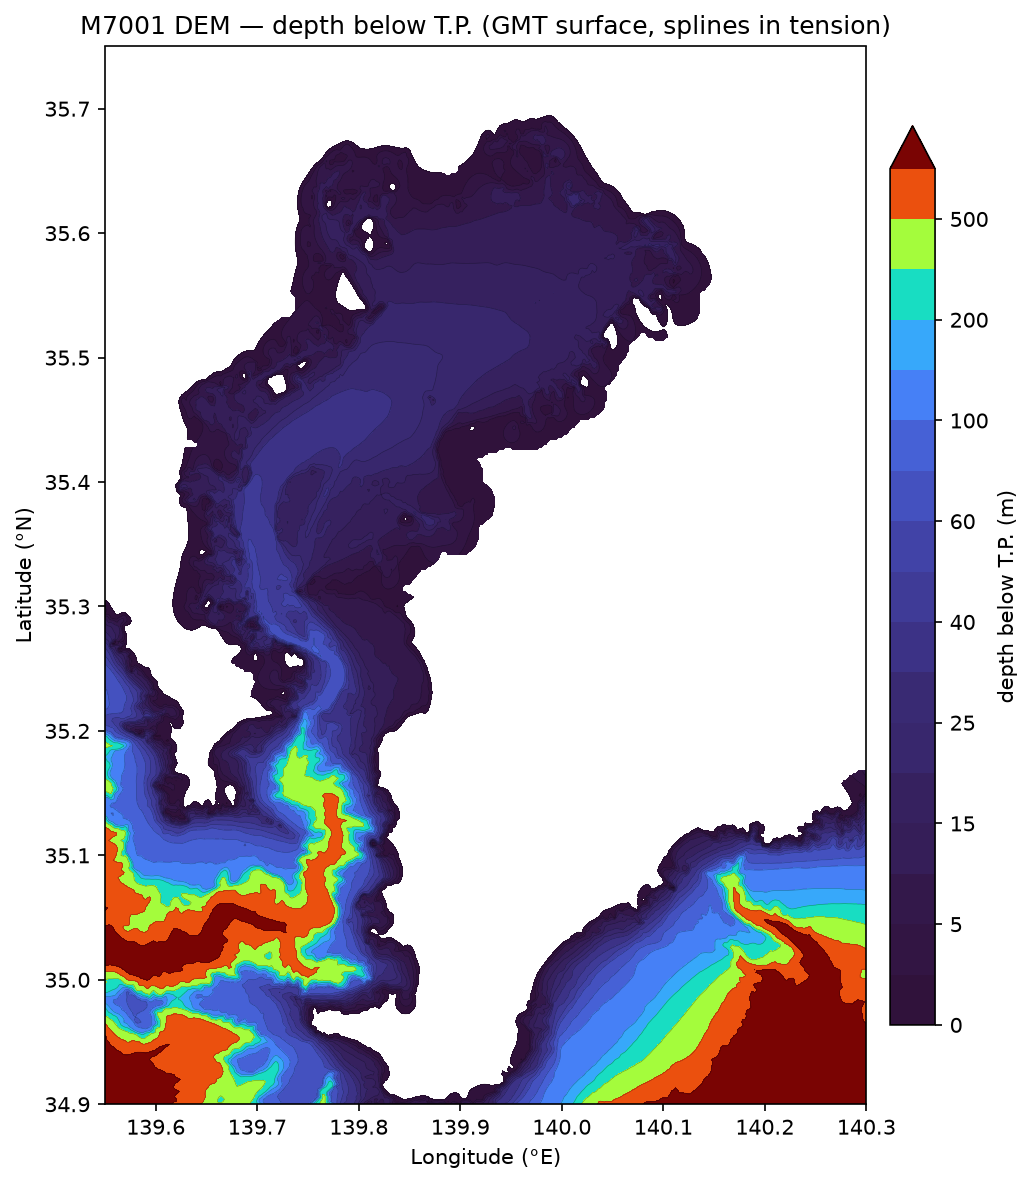
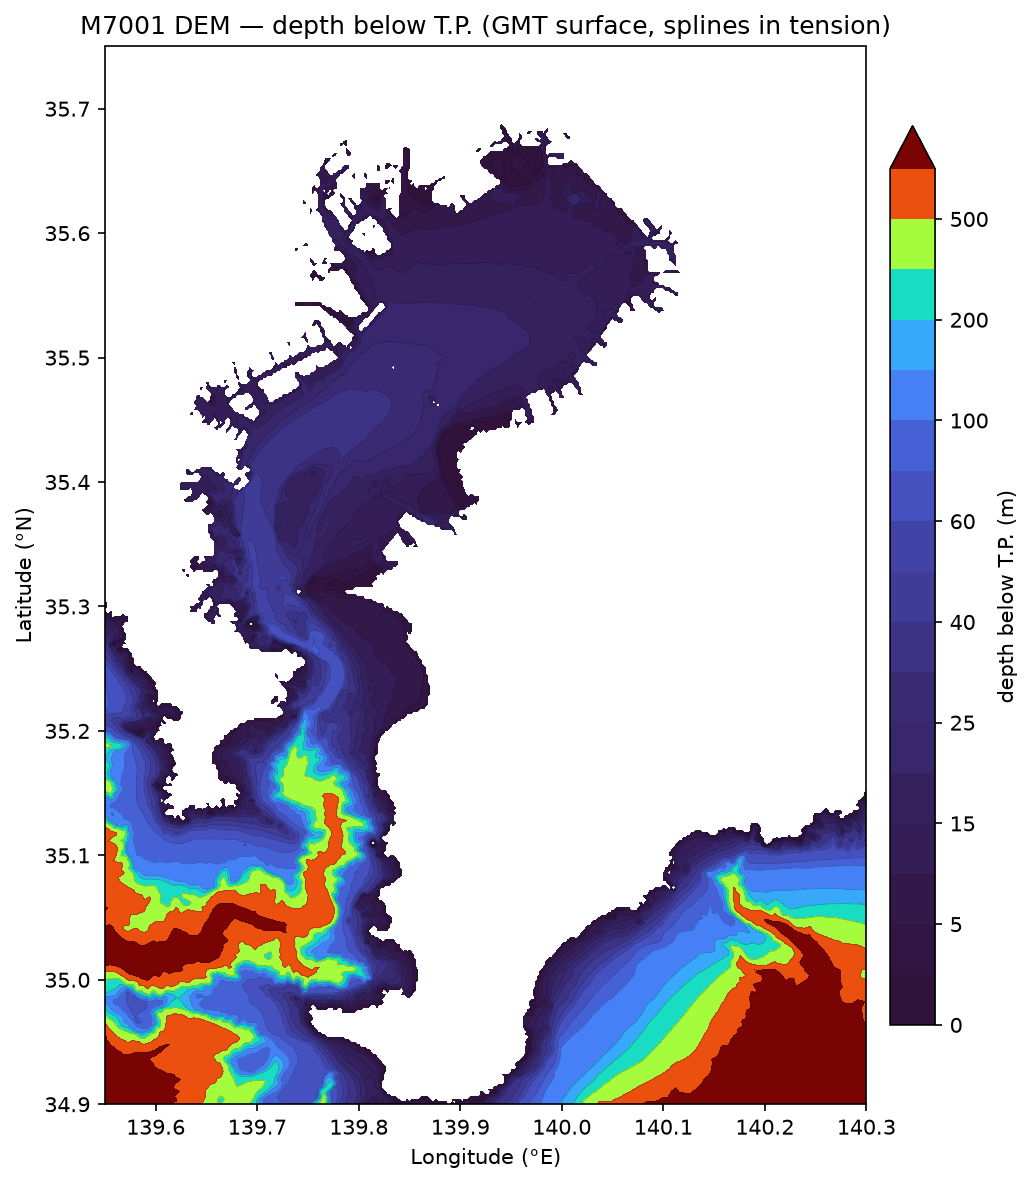
DEM hydro-flattening: clip to the OSM coastline (xcoast)
The DEM's blank areas previously followed a crude 2 km distance-from-data mask,
not the coast: it wrongly filled a ~2 km land fringe (spline extrapolated onto
land) and left ragged gaps. Add proper hydro-flattening — clip the DEM to water at
the real coastline using the OSM land polygons via the `xcoast` package. OSM
resolves reclaimed land / artificial islands (Haneda, 中央防波堤) that coarser
coastlines (GSHHG) miss, and generalises anywhere OSM covers.

- topobathy/grid/landmask.py: `osm_land_geometry(region)` -> shapely land polygon
  (xcoast + OSM shapefile extracts under $DATA_DIR/OSM; config.osm_land_shp / …).
- grid_dem gains `land_geom=` — grid nodes inside land are set NaN.
- topobathy-m7001-dem: `--land-mask` (default on) / `--no-land-mask`; DEM regenerated
  (coverage 53% -> 40%; Haneda/中央防波堤/inland now correctly land, bay water kept).
- genkai_m7001_dem.sh sets PROJ_DATA/GDAL_DATA (env-python job, no conda activate).
- geopandas/shapely/pyogrio added (environment.yml + `dem` extra); xcoast via pip.
- docs/dem.md + README updated; tests/test_grid.py covers land clipping.

Claude-Session: https://claude.ai/code/session_01Kn7V6BVsG7Mou1XRx9xaoV

diff --git a/topobathy/grid/landmask.py b/topobathy/grid/landmask.py
@@ -1,0 +1,55 @@
+"""OSM-derived land geometry for DEM hydro-flattening (via the ``xcoast`` package).
+
+Builds a single land (Multi)Polygon over a region from the OpenStreetMap land
+polygons, so a bathymetric DEM can be clipped to the actual water body (rather than
+a crude distance-from-data buffer). OSM resolves reclaimed land / artificial islands
+(e.g. Haneda, 中央防波堤) that coarser coastlines (GSHHG) miss.
+
+Requires the standalone ``xcoast`` package (OSM land masking) plus ``geopandas`` /
+``shapely`` / ``pyogrio``, and the OSM shapefile extracts under ``$DATA_DIR/OSM/``
+(see :func:`topobathy.config.osm_land_shp`). Install ``xcoast`` with
+``pip install -e /path/to/xcoast`` (or ``git+https://github.com/estuarine-utokyo/xcoast.git``).
+"""
+
+from __future__ import annotations
+
+from pathlib import Path
+from typing import TYPE_CHECKING, Any
+
+if TYPE_CHECKING:
+    from shapely.geometry.base import BaseGeometry
+
+from topobathy.grid.dem import Region
+
+__all__ = ["osm_land_geometry"]
+
+
+def osm_land_geometry(
+    region: Region,
+    land_shp: str | Path | None = None,
+    water_shp: str | Path | None = None,
+    cache_dir: str | Path | None = None,
+    force: bool = False,
+    **config_kwargs: Any,
+) -> "BaseGeometry":
+    """Return the OSM land (Multi)Polygon over ``region`` = ``(W, E, S, N)``.
+
+    Parameters mirror :class:`xcoast.CoastmaskConfig`; paths default to the
+    ``$DATA_DIR/OSM`` extracts (:mod:`topobathy.config`). ``remove_orphan_islands``
+    defaults to ``False`` here so small islands stay masked as land.
+    """
+    import xcoast
+
+    from topobathy import config as _cfg
+
+    conf = xcoast.CoastmaskConfig(
+        land_shp_path=Path(land_shp) if land_shp else _cfg.osm_land_shp(),
+        water_shp_path=Path(water_shp) if water_shp else _cfg.osm_water_shp(),
+        cache_dir=Path(cache_dir) if cache_dir else _cfg.coastmask_cache_dir(),
+        remove_orphan_islands=config_kwargs.pop("remove_orphan_islands", False),
+        **config_kwargs,
+    )
+    w, e, s, n = region
+    mask = xcoast.load((w, s, e, n), config=conf, force=force)  # xcoast bbox=(W,S,E,N)
+    gdf = mask.land_gdf
+    return gdf.union_all() if hasattr(gdf, "union_all") else gdf.unary_union

diff --git a/tests/test_grid.py b/tests/test_grid.py
@@ -64,3 +64,24 @@ def test_grid_dem_mask_blanks_far_cells() -> None:
         lon, lat, z, region=(139.6, 140.3, 35.0, 35.6), spacing=0.02, mask_km=3.0
     )
     assert np.isnan(dem.values).any()  # the gap between clusters is blanked
+
+
+def test_grid_dem_land_geom_clips() -> None:
+    from shapely.geometry import box
+
+    lon, lat, z = _synthetic()
+    land = box(139.90, 35.15, 140.10, 35.45)  # a land box inside the region
+    dem = grid_dem(
+        lon,
+        lat,
+        z,
+        region=(139.65, 140.15, 35.05, 35.55),
+        spacing=0.02,
+        mask_km=50.0,
+        land_geom=land,
+    )
+    LON, LAT = np.meshgrid(dem["lon"].values, dem["lat"].values)
+    inside = (LON > 139.92) & (LON < 140.08) & (LAT > 35.17) & (LAT < 35.43)
+    west_water = LON < 139.80
+    assert np.all(np.isnan(dem.values[inside]))  # land cells blanked
+    assert np.isfinite(dem.values[west_water]).any()  # water cells kept

diff --git a/topobathy/cli/m7001_dem.py b/topobathy/cli/m7001_dem.py
@@ -21,7 +21,7 @@ from pathlib import Path
 import numpy as np
 
 from topobathy import config
-from topobathy.grid import grid_dem
+from topobathy.grid import grid_dem, osm_land_geometry
 from topobathy.io import read_points
 
 
@@ -65,6 +65,14 @@ def _build_parser() -> argparse.ArgumentParser:
         default=["N", "M"],
         help="marks to grid (default: N M; both carry a T.P. elevation)",
     )
+    p.add_argument(
+        "--land-mask",
+        dest="land_mask",
+        action=argparse.BooleanOptionalAction,
+        default=True,
+        help="clip the DEM to water at the OSM coastline (hydro-flattening, via "
+        "xcoast); --no-land-mask keeps the plain distance-coverage mask",
+    )
     p.add_argument("--out", type=Path, required=True, help="output NetCDF path")
     return p
 
@@ -89,6 +97,11 @@ def main(argv: list[str] | None = None) -> int:
         flush=True,
     )
 
+    land_geom = None
+    if args.land_mask:
+        land_geom = osm_land_geometry((w, e, s, n))
+        print("land mask: OSM coastline (xcoast), hydro-flattening", flush=True)
+
     dem = grid_dem(
         d["lon"].to_numpy(),
         d["lat"].to_numpy(),
@@ -97,6 +110,7 @@ def main(argv: list[str] | None = None) -> int:
         spacing=args.spacing,
         tension=args.tension,
         mask_km=args.mask_km,
+        land_geom=land_geom,
     )
     valid = np.isfinite(dem.values)
     print(
@@ -112,8 +126,9 @@ def main(argv: list[str] | None = None) -> int:
         "datum": "Tokyo Peil (T.P. / 東京湾平均海面)",
         "method": (
             f"GMT surface (continuous-curvature spline in tension={args.tension}); "
-            f"blockmedian pre-decimation; coverage mask {args.mask_km} km. "
-            "Standard bathymetric gridding (Smith & Wessel 1990; GEBCO Cook Book)."
+            f"blockmedian pre-decimation; coverage mask {args.mask_km} km"
+            + ("; OSM-coastline hydro-flattening (xcoast)" if args.land_mask else "")
+            + ". Standard bathymetric gridding (Smith & Wessel 1990; GEBCO Cook Book)."
         ),
         "source": "M7001 (JHA/JCG) -> T.P. via topobathy; see docs/vertical_datum.md",
         "spacing_deg": str(args.spacing),

diff --git a/topobathy/grid/dem.py b/topobathy/grid/dem.py
@@ -28,6 +28,7 @@ from numpy.typing import ArrayLike
 
 if TYPE_CHECKING:
     import xarray as xr
+    from shapely.geometry.base import BaseGeometry
 
 __all__ = ["grid_dem"]
 
@@ -42,6 +43,7 @@ def grid_dem(
     spacing: float | str,
     tension: float = 0.35,
     mask_km: float | None = 2.0,
+    land_geom: "BaseGeometry | None" = None,
     blockmedian: bool = True,
 ) -> "xr.DataArray":
     """Grid scattered ``(lon, lat, z)`` to a DEM with splines in tension (GMT).
@@ -62,6 +64,11 @@ def grid_dem(
         Coverage mask: cells farther than this many km (great-circle) from any
         sounding are set to NaN, so the grid is not extrapolated over land / data
         gaps. ``None`` disables it.
+    land_geom
+        Optional land (Multi)Polygon (lon/lat) — grid nodes inside it are set to
+        NaN (**hydro-flattening**: clip the DEM to water at the real coastline
+        instead of a distance heuristic). Build one from OSM with
+        :func:`topobathy.grid.landmask.osm_land_geometry`.
     blockmedian
         Pre-decimate to one median sounding per cell (recommended).
 
@@ -97,8 +104,22 @@ def grid_dem(
             _coverage(grid, pts["x"].to_numpy(), pts["y"].to_numpy()) <= mask_km
         )
 
+    if land_geom is not None:
+        grid = grid.where(~_on_land(grid, land_geom))
+
     grid.name = "elevation"
     return cast("xr.DataArray", grid)
+
+
+def _on_land(grid: "xr.DataArray", land_geom: "BaseGeometry") -> np.ndarray:
+    """Boolean grid: True where the node falls inside the land geometry."""
+    from shapely import contains_xy
+
+    dim_y, dim_x = grid.dims
+    mesh_lon, mesh_lat = np.meshgrid(
+        np.asarray(grid[dim_x].values), np.asarray(grid[dim_y].values)
+    )
+    return np.asarray(contains_xy(land_geom, mesh_lon, mesh_lat), dtype=bool)
 
 
 def _coverage(

diff --git a/topobathy/config.py b/topobathy/config.py
@@ -21,6 +21,9 @@ __all__ = [
     "m7001_tp_dir",
     "default_z0_table",
     "geoid_file",
+    "osm_land_shp",
+    "osm_water_shp",
+    "coastmask_cache_dir",
 ]
 
 
@@ -92,3 +95,20 @@ def geoid_file() -> Path:
             "to download it (「日本のジオイド2011」)."
         )
     return candidates[0]
+
+
+def osm_land_shp() -> Path:
+    """OSM global land-polygons shapefile (``$DATA_DIR/OSM/...``) for the DEM land
+    mask (via ``xcoast``). Download the OSMdata land-polygons-split-4326 extract."""
+    return get_data_dir() / "OSM" / "land-polygons-split-4326" / "land_polygons.shp"
+
+
+def osm_water_shp() -> Path:
+    """Geofabrik OSM water-polygons shapefile used by ``xcoast`` to carve inland
+    water out of the land mask (rivers/lakes stay 'not land')."""
+    return get_data_dir() / "OSM" / "geofabrik_kanto" / "gis_osm_water_a_free_1.shp"
+
+
+def coastmask_cache_dir() -> Path:
+    """Cache directory for xcoast coastmask GeoPackages."""
+    return get_data_dir() / "OSM" / "coastmask_cache"

diff --git a/topobathy/grid/__init__.py b/topobathy/grid/__init__.py
@@ -3,5 +3,6 @@
 from __future__ import annotations
 
 from .dem import grid_dem
+from .landmask import osm_land_geometry
 
-__all__ = ["grid_dem"]
+__all__ = ["grid_dem", "osm_land_geometry"]

diff --git a/docs/dem.md b/docs/dem.md
@@ -32,13 +32,27 @@ is the appropriate standard, over TIN.
 2. **`surface`** — grid with a tension factor (~0.25–0.4 for bathymetry; `0.35`
    default). `coltypes="g"` → geographic metric, lon/lat grid.
 3. **coverage mask** — blank cells farther than `mask_km` (default 2 km) from any
-   sounding, so the grid is not extrapolated over land / data gaps.
+   sounding, so the grid is not extrapolated far into data gaps.
+4. **hydro-flattening** — clip the DEM to water at the real **OSM coastline**
+   (`land_geom`; via [`xcoast`](https://github.com/estuarine-utokyo/xcoast)), so land
+   (incl. reclaimed land / artificial islands such as Haneda, 中央防波堤) is NaN and
+   the water edge follows the true coast — not a distance buffer. OSM resolves
+   reclaimed land that coarser coastlines (GSHHG) miss.
 
 ```python
 from topobathy import grid_dem
-dem = grid_dem(lon, lat, z_tp, region=(139.55, 140.30, 34.90, 35.75),
-               spacing=0.002, tension=0.35, mask_km=2.0)   # xarray DataArray, T.P. (+up)
+from topobathy.grid import osm_land_geometry
+
+region = (139.55, 140.30, 34.90, 35.75)
+land = osm_land_geometry(region)                       # OSM land polygon (xcoast)
+dem = grid_dem(lon, lat, z_tp, region=region, spacing=0.002, tension=0.35,
+               mask_km=2.0, land_geom=land)             # xarray DataArray, T.P. (+up)
 ```
+
+The OSM land mask needs the `xcoast` package plus the OSM shapefile extracts under
+`$DATA_DIR/OSM/` (`land-polygons-split-4326`, geofabrik water); paths resolve via
+`topobathy.config.osm_land_shp` / `osm_water_shp`. `topobathy-m7001-dem --no-land-mask`
+falls back to the plain distance-coverage mask.
 
 ## Run
 
@@ -58,9 +72,9 @@ depth and is excluded (it bounds the land side).
 
 - **Tension** trades smoothness vs. faithfulness; raise it (→0.4–0.5) if the spline
   overshoots into small positive elevations in shallow corners.
-- **Hydro-flattening** (clipping land to a coastline / setting a land value) is a
-  refinement: here the coverage mask removes far-from-data land, which is adequate
-  for a water-only bathymetric DEM. A full land clip would use the `L` coastline.
+- **Hydro-flattening** clips the DEM to water at the **OSM coastline** (step 4); OSM
+  captures reclaimed land / artificial islands that GSHHG or the M7001 `L` waterline
+  may not. `--no-land-mask` reverts to the distance-coverage mask only.
 - **Compositing** multiple sources (M7001 + CUDEM/GEBCO/SRTM15plus/… under
   `$DATA_DIR/bathymetry`) follows the same GEBCO/NOAA workflow: assemble by data
   priority → tension-spline grid → mask/flatten. This is the natural next tool.

diff --git a/README.md b/README.md
@@ -130,8 +130,9 @@ df = add_tp_elevation(df, Z0Field.from_csv(config.default_z0_table()))
 
 Grid the T.P. soundings into a smooth DEM by the community-standard method — GMT
 `surface` (continuous-curvature splines in tension; GEBCO / NOAA), **not** TIN
-(which leaves facets and terraces contour data). See
-**[`docs/dem.md`](docs/dem.md)**.
+(which leaves facets and terraces contour data) — then **hydro-flatten** to the
+**OSM coastline** (via [`xcoast`](https://github.com/estuarine-utokyo/xcoast); clips
+land, incl. reclaimed land/islands). See **[`docs/dem.md`](docs/dem.md)**.
 
 ```bash
 pjsub scripts/genkai_m7001_dem.sh     # Tokyo Bay DEM -> TP/M7001_dem_tokyobay.nc